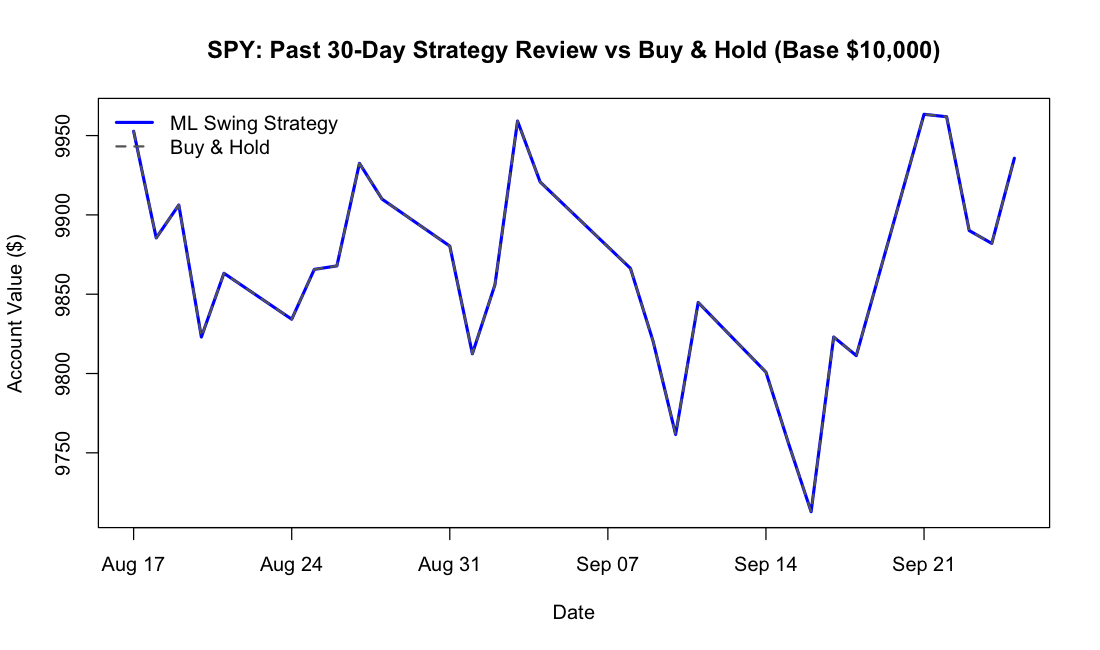
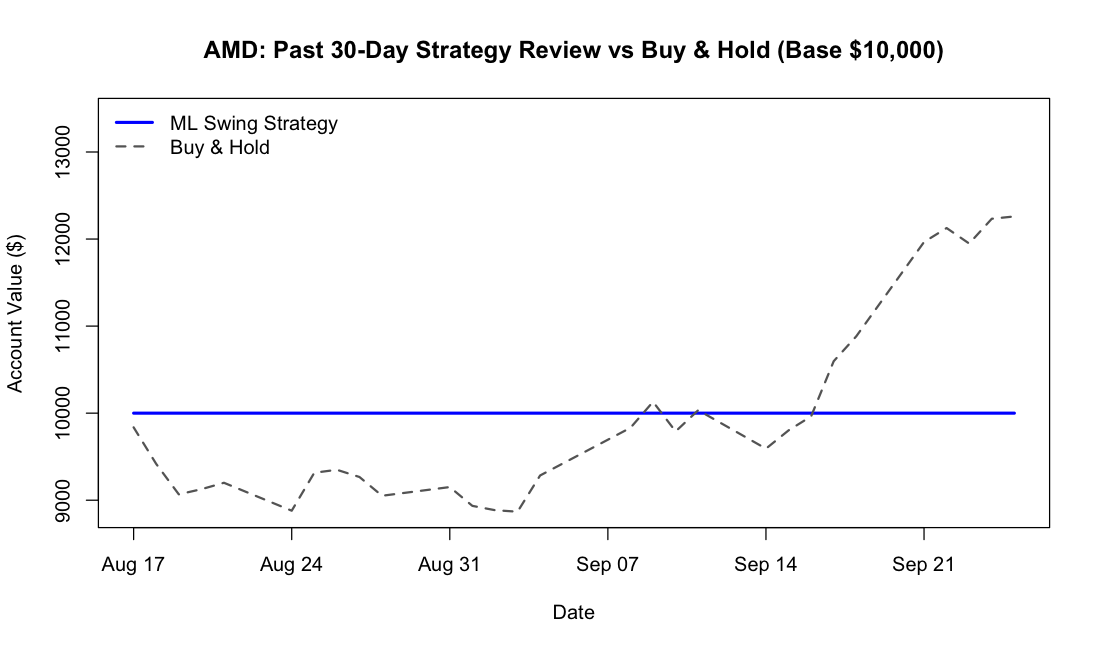
refactor: Harden broker execution, leverage scaling, backtests, and CLI automation

diff --git a/README.md b/README.md
@@ -8,7 +8,7 @@ A statistical swing trading system implemented in pure **R**, utilizing moderniz
 
 1. **Linear Model Moving Average (`lmMA`)**: Replaces simple moving averages with rolling linear regressions (`TTR::rollSFM`) to decouple trend direction (instantaneous slope $\beta$) and trend level ($\alpha + \beta t$) with minimal lag.
 2. **GARCH(1,1) Volatility Modeling**: Models time-varying conditional variance $\sigma_t$ and standardized return shocks ($\epsilon_t / \sigma_t$) via quasi-maximum likelihood estimation (`tseries::garch`).
-3. **12-Feature Pipeline with Benchmark Relative Strength (`RS_20`) & Volume Surge**: Expands feature space to 12 predictors including 20-day excess return vs. S&P 500 (`SPY`), 20-day Volume Ratio ($Vol_t / \text{SMA}_{20}(Vol)$), and standardized On-Balance Volume slope ($\beta_{OBV}$) to isolate high-conviction institutional leaders before breakout confirmation.
+3. **15-Feature Pipeline with Momentum, Relative Strength & Volume**: Expands feature space to 15 orthogonal predictors including 20-day excess return vs. S&P 500 (`SPY`), RSI(14), normalized MACD Histogram, Bollinger %B, 20-day Volume Ratio, and standardized On-Balance Volume slope to isolate high-conviction institutional leaders before breakout confirmation.
 4. **Dynamic VIX Volatility Regime Switcher**: Queries CBOE Volatility Index (`^VIX`) to toggle between `NORMAL` (<20), `ELEVATED` (20-28), and `CRISIS` (>28) market states. Automatically throttles maximum position slots (5 $\rightarrow$ 3 $\rightarrow$ 1) and scales the Ralph Vince Safe $f$ multiplier (0.50 $\rightarrow$ 0.30 $\rightarrow$ 0.15) while tightening probability thresholds.
 5. **Sector & Cluster Concentration Defense**: Enforces strict portfolio diversification by capping exposure at a maximum of 2 active positions per sector (e.g. Semiconductors, Software, Hardware), preventing catastrophic sector-specific drawdowns.
 6. **Multi-Tier Profit Bracket Exits with ATR Chandelier Trailing Stop**:
@@ -17,9 +17,9 @@ A statistical swing trading system implemented in pure **R**, utilizing moderniz
 7. **Portfolio Heat Cap & Account Drawdown Circuit Breaker**:
    - Enforces a hard ceiling of **$\le 5.0\%$ total portfolio dollars-at-risk** across all open positions.
    - Triggers an automatic **Drawdown Circuit Breaker** if account equity drops $\ge 4.0\%$ below peak equity, cutting Safe $f$ by 50% to preserve capital.
-8. **Automated Multi-Broker Execution & Two-Way Sync Bridge**: Python & R CLI bridge (`execute_broker.py` / `execute_orders.R`) supporting automated bracket staging, live transmission, and two-way portfolio reconciliation (`--sync`) for **Interactive Brokers (IBKR)** and **Charles Schwab Trader API**.
+8. **Automated Multi-Broker Execution & Two-Way Sync Bridge**: Python & R CLI bridges supporting automated bracket staging, live transmission, and two-way portfolio reconciliation (`--sync`) across **Interactive Brokers (IBKR Pro)**, **Charles Schwab Trader API**, and **Robinhood**.
 9. **Real-Time Mobile Push Alerts (Discord & Telegram Webhooks)**: Automatically pushes Monday 14:00 entry tickets and Friday 15:30 weekend hold reviews directly to your smartphone via lightweight HTTP webhooks (`R/send_alert.R`).
-10. **Ralph Vince Leverage Space Model (LSPM)**: Geometric Holding Period Return ($\text{GHPR}$) optimization across joint scenario returns, finding the optimal leverage vector $\mathbf{f}^*$ scaled by dynamic Safe $f$ to maximize long-term geometric compounding.
+10. **Ralph Vince Leverage Space Model (LSPM)**: Geometric Holding Period Return ($\text{GHPR}$) optimization across joint scenario returns, finding the optimal leverage vector $\mathbf{f}^*$ scaled by dynamic Safe $f$ to maximize long-term geometric compounding with slot-level diversification caps.
 11. **Macro Market Regime Gate (`QQQ`) & Earnings Blackout Filter**: Top-down trend filter requiring QQQ above its 50-day `lmMA` with positive slope, plus an automatic 7-day pre-earnings blackout to eliminate binary gap risk.
 
 ---
@@ -32,8 +32,8 @@ A statistical swing trading system implemented in pure **R**, utilizing moderniz
 │   ├── 01_data_loader.R       # Data retrieval (Yahoo Finance & cache fallback)
 │   ├── 02_trend_lmMA.R        # Rolling Linear Model Moving Average (lmMA)
 │   ├── 03_volatility_garch.R  # GARCH(1,1) volatility & standardized residuals
-│   ├── 04_feature_pipeline.R  # Feature engineering & forward target calculation
-│   ├── 05_logistic_model.R    # Regularized logistic regression & classification
+│   ├── 04_feature_pipeline.R  # 15-feature engineering & forward target calculation
+│   ├── 05_logistic_model.R    # Regularized logistic regression with blocked folds
 │   ├── 06_swing_backtest.R    # Swing backtest simulator, metrics & trade logger
 │   ├── 07_leverage_space.R    # Ralph Vince Leverage Space Model (Optimal f / Safe f)
 │   ├── portfolio_manager.R    # Active portfolio state tracking, P&L sync & exit checks
@@ -41,12 +41,20 @@ A statistical swing trading system implemented in pure **R**, utilizing moderniz
 ├── main.R                     # Full backtesting & diagnostic plotting pipeline
 ├── daily_signal.R             # Multi-asset live scanner & order ticket generator
 ├── execute_broker.py          # Python execution bridge (IBKR & Charles Schwab API)
+├── execute_ibkr.py            # Dedicated IBKR Pro OCA bracket order bridge
+├── execute_robinhood.py       # Robinhood automated order execution bridge
+├── poll_robinhood_exits.py    # Background exit poller for Robinhood stops/targets
 ├── execute_orders.R           # R CLI runner for automated broker execution
 ├── trade_manager.R            # CLI portfolio manager (record fills, exits & P&L)
 ├── monthly_review.R           # Monthly performance & health evaluation script
+├── backtest_extended.R        # 1-Year (252d) and 18-Month (378d) walk-forward backtest
+├── backtest_broad_universe.R  # 170-stock broad universe walk-forward portfolio simulation
 ├── backtest_past_2_months.R   # 2-month out-of-sample backtest vs S&P 500 (SPY)
 ├── backtest_all_symbols.R     # Watchlist-wide backtest across all symbols in symbols.txt
 ├── test_leverage_space.R      # Verification test for Leverage Space sizing
+├── auto_trade_ibkr.sh         # Turnkey automated daily pipeline for IBKR Pro
+├── auto_trade_robinhood.sh    # Turnkey automated daily pipeline for Robinhood
+├── auto_trade_schwab.sh       # Turnkey automated daily pipeline for Charles Schwab
 ├── run_daily.sh               # Automation execution script with desktop alerts
 ├── install_automation.sh      # macOS launchd background scheduler installer
 ├── uninstall_automation.sh    # macOS launchd uninstaller

diff --git a/TRADING_PLAYBOOK.md b/TRADING_PLAYBOOK.md
@@ -97,6 +97,26 @@ You can stage and submit bracket orders directly to your broker using the built-
    ```bash
    # 1. Preview Schwab FIRST_TRIGGERS_OCO JSON payloads
    Rscript execute_orders.R --broker=schwab --dry_run=TRUE
+
+   # 2. Transmit live orders to Charles Schwab Trader API
+   Rscript execute_orders.R --broker=schwab --dry_run=FALSE --yes
+   ```
+3. **Robinhood**:
+   ```bash
+   # 1. Preview buy order staging
+   Rscript execute_orders.R --broker=robinhood --dry_run=TRUE
+
+   # 2. Execute buy orders on Robinhood
+   Rscript execute_orders.R --broker=robinhood --dry_run=FALSE
+
+   # 3. Start background stop-loss and profit target exit daemon
+   python3 poll_robinhood_exits.py --interval=30 --dry_run=false
+   ```
+4. **Turnkey Automated Daily Pipelines**:
+   ```bash
+   ./auto_trade_ibkr.sh --dry_run=true      # IBKR Pro preview / staging
+   ./auto_trade_schwab.sh --dry_run=true    # Schwab preview / staging
+   ./auto_trade_robinhood.sh --dry_run=true # Robinhood preview / staging
    ```
 
 #### Option B: Manual Execution via Broker Web / Mobile App
